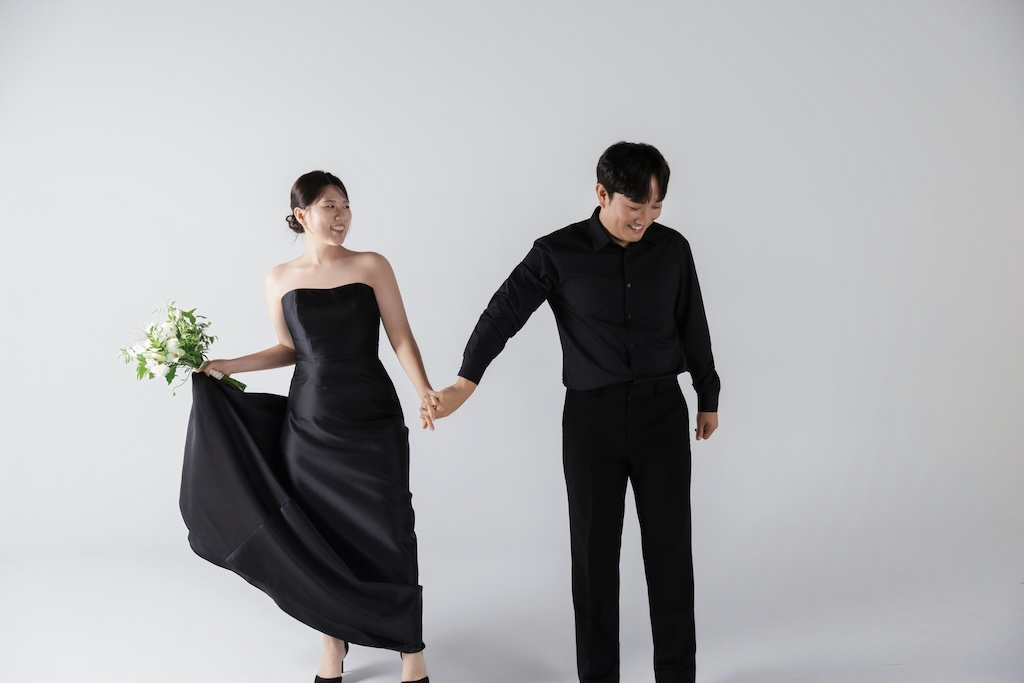
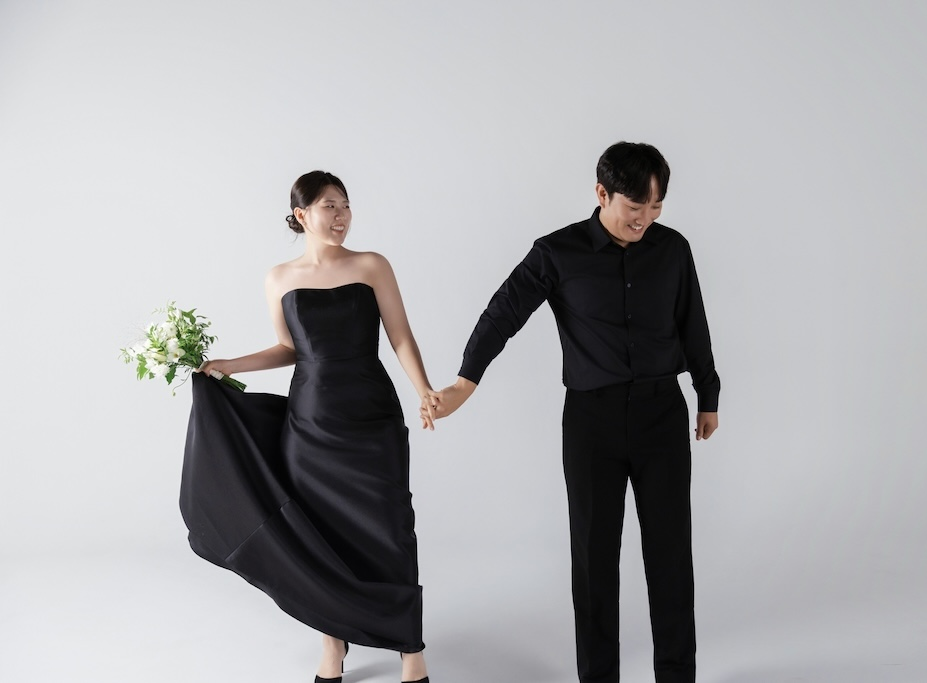
이미지 정렬 변경, pagination 추가

Changed region(s): [[0.1208, 0.1845, 0.7853, 1.0], [0.9968, 0.0, 1.0, 0.0307]]

diff --git a/src/components/Guestbook.vue b/src/components/Guestbook.vue
@@ -1,5 +1,5 @@
 <script setup>
-import { onMounted, onUnmounted, ref, watch } from 'vue'
+import { computed, onMounted, onUnmounted, ref, watch } from 'vue'
 import {
   createGuestbookMessage,
   deleteGuestbookMessage,
@@ -9,7 +9,10 @@ import {
 } from '@/lib/guestbook'
 import { isSupabaseConfigured } from '@/lib/supabase'
 
+const PAGE_SIZE = 5
+
 const comments = ref([])
+const currentPage = ref(1)
 const isWriteOpen = ref(false)
 const isLoading = ref(false)
 const isSubmitting = ref(false)
@@ -17,6 +20,15 @@ const deletingId = ref('')
 const loadError = ref('')
 const form = ref(emptyForm())
 const errorMessage = ref('')
+
+const totalPages = computed(() =>
+  Math.max(1, Math.ceil(comments.value.length / PAGE_SIZE)),
+)
+const showPagination = computed(() => comments.value.length >= PAGE_SIZE)
+const pagedComments = computed(() => {
+  const start = (currentPage.value - 1) * PAGE_SIZE
+  return comments.value.slice(start, start + PAGE_SIZE)
+})
 
 function emptyForm() {
   return {
@@ -114,6 +126,7 @@ async function submitComment() {
       message,
       ...comments.value.filter((item) => item.id !== message.id),
     ]
+    currentPage.value = 1
     isWriteOpen.value = false
   } catch (error) {
     errorMessage.value = toErrorMessage(error, '메시지 작성에 실패했습니다.')
@@ -149,9 +162,23 @@ async function removeComment(comment) {
   }
 }
 
+function goToPage(page) {
+  if (page < 1 || page > totalPages.value || page === currentPage.value) return
+  currentPage.value = page
+}
+
 function onKeydown(event) {
   if (event.key === 'Escape') closeWrite()
 }
+
+watch(
+  () => comments.value.length,
+  () => {
+    if (currentPage.value > totalPages.value) {
+      currentPage.value = totalPages.value
+    }
+  },
+)
 
 watch(isWriteOpen, (open) => {
   document.body.style.overflow = open ? 'hidden' : ''
@@ -199,7 +226,7 @@ onUnmounted(() => {
 
     <ul v-else class="flex flex-col gap-3 text-left">
       <li
-        v-for="comment in comments"
+        v-for="comment in pagedComments"
         :key="comment.id"
         class="rounded-lg bg-white px-5 py-4"
       >
@@ -236,6 +263,69 @@ onUnmounted(() => {
         </p>
       </li>
     </ul>
+
+    <nav
+      v-if="!isLoading && !loadError && showPagination"
+      class="flex items-center justify-center gap-1"
+      aria-label="방명록 페이지"
+    >
+      <button
+        type="button"
+        class="flex size-8 items-center justify-center text-description disabled:opacity-30"
+        aria-label="이전 페이지"
+        :disabled="currentPage === 1"
+        @click="goToPage(currentPage - 1)"
+      >
+        <svg
+          xmlns="http://www.w3.org/2000/svg"
+          viewBox="0 0 24 24"
+          fill="none"
+          stroke="currentColor"
+          stroke-width="1.5"
+          stroke-linecap="round"
+          stroke-linejoin="round"
+          class="size-4"
+          aria-hidden="true"
+        >
+          <path d="M15 6l-6 6 6 6" />
+        </svg>
+      </button>
+
+      <button
+        v-for="page in totalPages"
+        :key="page"
+        type="button"
+        class="body3 flex size-8 items-center justify-center rounded-full"
+        :class="page === currentPage ? 'bg-primary1 text-white' : 'text-description'"
+        :aria-label="`${page}페이지`"
+        :aria-current="page === currentPage ? 'page' : undefined"
+        @click="goToPage(page)"
+      >
+        {{ page }}
+      </button>
+
+      <button
+        type="button"
+        class="flex size-8 items-center justify-center text-description disabled:opacity-30"
+        aria-label="다음 페이지"
+        :disabled="currentPage === totalPages"
+        @click="goToPage(currentPage + 1)"
+      >
+        <svg
+          xmlns="http://www.w3.org/2000/svg"
+          viewBox="0 0 24 24"
+          fill="none"
+          stroke="currentColor"
+          stroke-width="1.5"
+          stroke-linecap="round"
+          stroke-linejoin="round"
+          class="size-4"
+          aria-hidden="true"
+        >
+          <path d="M9 6l6 6-6 6" />
+        </svg>
+      </button>
+    </nav>
 
     <button
       type="button"
